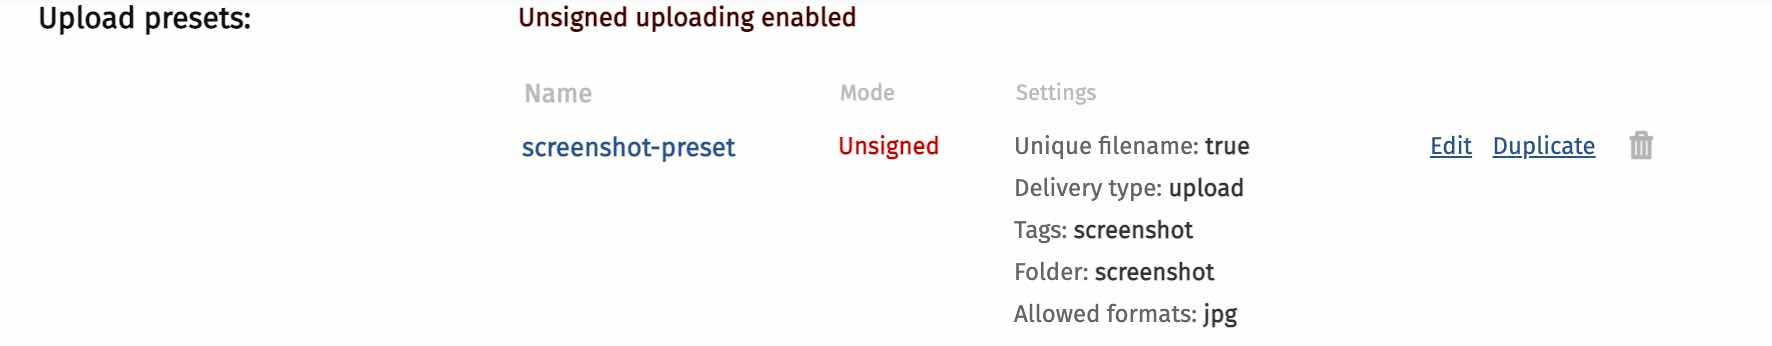
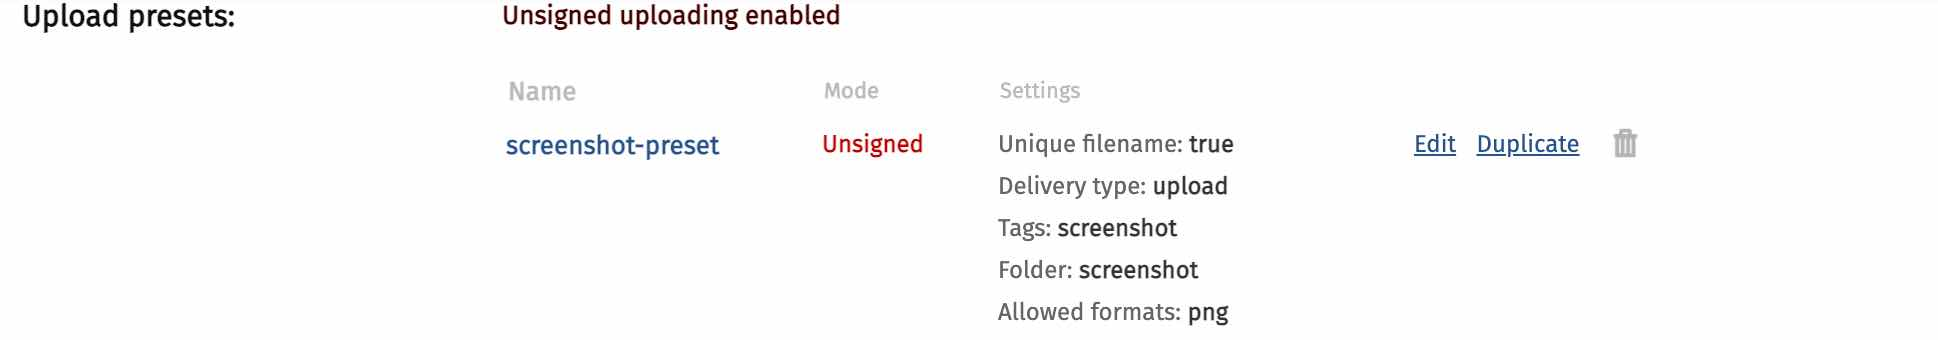
reformat code and assign public id current date

diff --git a/public/script.js b/public/script.js
@@ -10,77 +10,84 @@
 // }
 
 async function uploadToCloudinary(b64image, cloudname, preset) {
-    let url = `https://api.cloudinary.com/v1_1/${cloudname}/upload`;
-    // var xhr = new XMLHttpRequest();
-    // xhr.open('POST', url, true);
-    // xhr.setRequestHeader('X-Requested-With', 'XMLHttpRequest');
-    var fd = new FormData();
-    fd.append('upload_preset', preset);
-    fd.append('file', b64image);
-    // xhr.send(fd);
-    const plainFormData = Object.fromEntries(fd.entries());
-    const formDataJsonString = JSON.stringify(plainFormData);
-    const fetchOptions = {
-        method: "POST",
-        headers: {
-            "Content-Type": "application/json",
-            "Accept": "application/json"
-        },
-        body: formDataJsonString,
-    }
-    const response = await fetch(url, fetchOptions);
-    if (!response.ok) {
-        const errorMessage = await response.text();
-        throw new Error(errorMessage);
-    }
+  let url = `https://api.cloudinary.com/v1_1/${cloudname}/upload`;
+  // use current epic time for public id
+  let options = {public_id: `${Date.now()}`}
+  var fd = new FormData();
+  fd.append("upload_preset", preset);
+  fd.append("file", b64image);
+  fd.append("options",options);
 
-    return response.json();
+  // prepare to post data as JSON
+  const plainFormData = Object.fromEntries(fd.entries());
+  const formDataJsonString = JSON.stringify(plainFormData);
+  const fetchOptions = {
+    method: "POST",
+    headers: {
+      "Content-Type": "application/json",
+      Accept: "application/json",
+    },
+    body: formDataJsonString,
+  };
+  const response = await fetch(url, fetchOptions);
+  if (!response.ok) {
+    const errorMessage = await response.text();
+    throw new Error(errorMessage);
+  }
+  return response.json();
 }
 
-async function main() {
-    document
-        .querySelector('button[type="submit"]')
-        .addEventListener("click", (e) => {
-            e.preventDefault();
+document
+  .querySelector('button[type="submit"]')
+  .addEventListener("click", (e) => {
+    e.preventDefault();
 
-            const urlSS = document.getElementById("url").value;
-            const cloudname = document.getElementById("cloudname").value;
-            const preset = document.getElementById("preset").value;
+    const urlSS = document.getElementById("url").value;
+    const cloudname = document.getElementById("cloudname").value;
+    const preset = document.getElementById("preset").value;
 
-            let warning = "";
-            warning += !urlSS ? "<li>Please enter a screenshot URL</li>" : "";
-            warning += !cloudname ? "<li>Please enter Cloudinary CLOUD_NAME</li>" : "";
-            warning += !preset ? "<li>Please enter a Cloudinary unsigned preset</li>" : "";
-            if (warning) return (document.getElementById("warning").innerHTML = warning);
+    /* validate input */
+    let warning = "";
+    warning += !urlSS ? "<li>Please enter a screenshot URL</li>" : "";
+    warning += !cloudname ? "<li>Please enter Cloudinary CLOUD_NAME</li>" : "";
+    warning += !preset
+      ? "<li>Please enter a Cloudinary unsigned preset</li>"
+      : "";
+    if (warning)
+      return (document.getElementById("warning").innerHTML = warning);
 
-          
+    /* get screenshot */
+    let result = `<p>${urlSS}, ${cloudname}, ${preset}</p>`;
 
-            let result = `<p>${urlSS}, ${cloudname}, ${preset}</p>`;
+    document.getElementById("result").innerHTML = result + "Please wait...";
 
-            document.getElementById("result").innerHTML = result + "Please wait...";
+    const options = {
+      method: "POST",
+      headers: { "Content-Type": "application/json; charset=utf-8" },
+      body: JSON.stringify({ urlSS: urlSS }),
+    };
 
-            const options = {
-                method: "POST",
-                headers: { "Content-Type": "application/json; charset=utf-8" },
-                body: JSON.stringify({ urlSS: urlSS }),
-            };
-
-            fetch("/.netlify/functions/screenshot", options)
-                .then((res) => res.json())
-                .then(async (res) => {
-                    if (!res.b64image) return document.getElementById('warning').innerHTML = 'Error capturing screenshot';
-                    const response = await uploadToCloudinary(res.b64image, cloudname, preset);
-                    const img = document.createElement("img");
-                    img.src = res.b64image;
-                    // img.src = response.secureURL;
-                    document.getElementById("result").innerHTML = img.outerHTML;
-                })
-                .catch((err) => {
-                    console.log(err);
-                    document.getElementById(
-                        "result"
-                    ).textContent = `Error: ${err.toString()}`;
-                });
-        });
-}
-main();
+    fetch("/.netlify/functions/screenshot", options)
+      .then((res) => res.json())
+      .then(async (res) => {
+        if (!res.b64image)
+          return (document.getElementById("warning").innerHTML =
+            "Error capturing screenshot");
+        //upload screenshot to Cloudinary
+        const response = await uploadToCloudinary(
+          res.b64image,
+          cloudname,
+          preset
+        );
+        const img = document.createElement("img");
+        // img.src = res.b64image;
+        img.src = response.secureURL;
+        document.getElementById("result").innerHTML = img.outerHTML;
+      })
+      .catch((err) => {
+        console.log(err);
+        document.getElementById(
+          "result"
+        ).textContent = `${err.toString()}`;
+      });
+  });

diff --git a/README.md b/README.md
@@ -25,5 +25,5 @@ https://medium.com/@viviancpy/save-screenshot-of-websites-with-puppeteer-cloudin
 
 ## Cloudinary Preset
 
-The image below shows an unsigned preset.  Besides authorizing an unsigned upload, this preset will also place the uploaded asset in a folder named "screenshot", add a tag named "screenshot" and only allow `jpg` formatted files to be uploaded.
-![Cloudinary unsigned preset](./preset.jpb)
+The image below shows an unsigned preset.  Besides authorizing an unsigned upload, this preset will also place the uploaded asset in a folder named "screenshot", add a tag named "screenshot" and only allow file with a `png` format to be uploaded.
+![Cloudinary unsigned preset](./preset.jpg)
